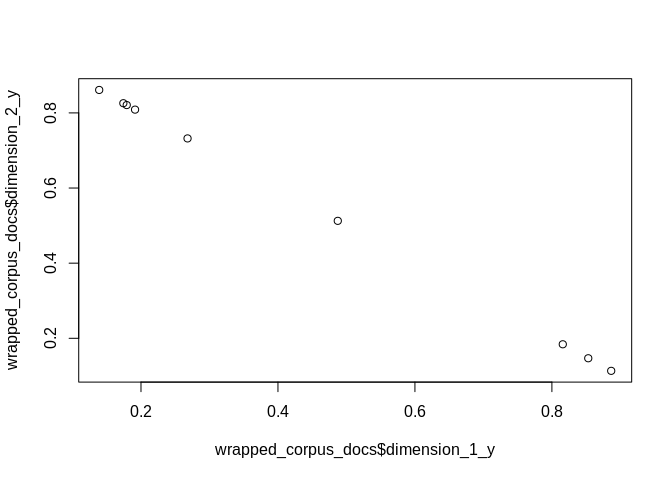
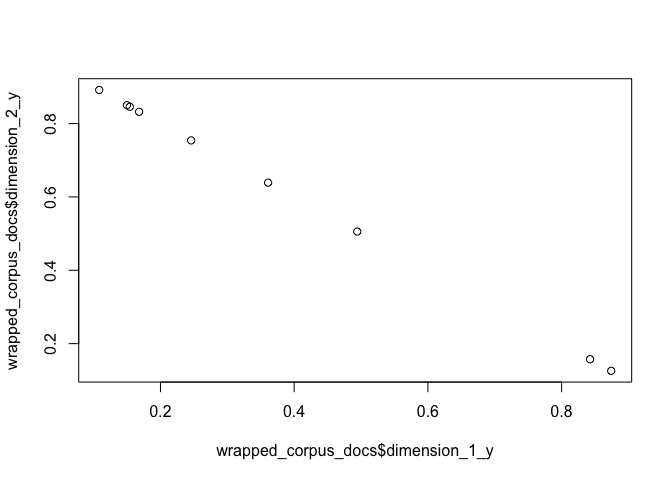
log entropy added

diff --git a/README.md b/README.md
@@ -1,26 +1,29 @@
 
 <!-- README.md is generated from README.Rmd. Please edit that file -->
+
 <!-- badges: start -->
-[![Lifecycle: experimental](https://img.shields.io/badge/lifecycle-experimental-orange.svg)](https://www.tidyverse.org/lifecycle/#experimental) [![Travis build status](https://travis-ci.org/news-r/gensimr.svg?branch=master)](https://travis-ci.org/news-r/gensimr) <!-- badges: end -->
 
-![gensim official logo](https://radimrehurek.com/gensim/_static/images/gensim.png)
+[![Lifecycle:
+experimental](https://img.shields.io/badge/lifecycle-experimental-orange.svg)](https://www.tidyverse.org/lifecycle/#experimental)
+[![Travis build
+status](https://travis-ci.org/news-r/gensimr.svg?branch=master)](https://travis-ci.org/news-r/gensimr)
+<!-- badges: end -->
 
-Brings [gensim](https://radimrehurek.com/gensim) to R: efficient large-scale topic modeling.
+![gensim official
+logo](https://radimrehurek.com/gensim/_static/images/gensim.png)
 
-⚠ Notice the "Experimental" lifecycle badge: things won't work, stuff will break.
+Brings [gensim](https://radimrehurek.com/gensim) to R: efficient
+large-scale topic modeling.
 
-- [Installation](#installation)
-- [Topic Modeling](#topic-modeling)
-  - [Latent Similarity Index](#latent-similarity-index)
-  - [Random Projections](#random-projections)
-  - [Latent Dirichlet Allocation](#latent-dirichlet-allocation)
-  - [Hierarchical Dirichlet Process](#hierarchical-dirichlet-process)
-- [Document Similarity](#document-similarity)
-  - [word2vec](#word2vec)
-- [Downloader](#downloader)
+⚠ Notice the “Experimental” lifecycle badge: things won’t work, stuff
+will break.
 
-Installation
-------------
+  - [Installation](#installation)
+  - [Preprocessing](#preprocessing)
+  - [Topic Modeling](#topic-modeling)
+  - [Document Similarity](#document-similarity)
+
+## Installation
 
 Install the package.
 
@@ -31,13 +34,16 @@ remotes::install_github("news-r/gensimr")
 
 Install the python dependency.
 
-*Make sure you have a C compiler before installing Gensim, to use the optimized word2vec routines (70x speedup compared to plain NumPy implementation).*
+*Make sure you have a C compiler before installing Gensim, to use the
+optimized word2vec routines (70x speedup compared to plain NumPy
+implementation).*
 
 ``` r
 gensimr::install_gensim()
 ```
 
-Ideally one should use a virtual environment and pass it to `install_gensim`, only do this once.
+Ideally one should use a virtual environment and pass it to
+`install_gensim`, only do this once.
 
 ``` r
 # replace with path of your choice
@@ -50,10 +56,11 @@ reticulate::use_virtualenv(my_env) # force reticulate to use env
 gensimr::install_gensim(my_env) # install gensim in environment
 ```
 
- Preprocessing
---------------
+\#\# Preprocessing
 
-First we preprocess the corpus using example data, a tiny corpus of 9 documents. Reproducing the tutorial on [corpora and vector spaces](https://radimrehurek.com/gensim/tut1.html).
+First we preprocess the corpus using example data, a tiny corpus of 9
+documents. Reproducing the tutorial on [corpora and vector
+spaces](https://radimrehurek.com/gensim/tut1.html).
 
 ``` r
 library(gensimr)
@@ -74,6 +81,16 @@ print(corpus)
 docs <- preprocess(corpus)
 #> → Preprocessing 9 documents
 #> ← 9 documents after perprocessing
+
+docs[[1]] # print first preprocessed document 
+#> [[1]]
+#> [1] "human"
+#> 
+#> [[2]]
+#> [1] "interface"
+#> 
+#> [[3]]
+#> [1] "computer"
 ```
 
 Once preprocessed we can build a dictionary.
@@ -84,7 +101,10 @@ dictionary <- corpora_dictionary(docs)
 
 A dictionary essentially assigns an integer to each term.
 
-`doc2bow` simply applies the method of the same name to every documents (see example below); it counts the number of occurrences of each distinct word, converts the word to its integer word id and returns the result as a sparse vector.
+`doc2bow` simply applies the method of the same name to every documents
+(see example below); it counts the number of occurrences of each
+distinct word, converts the word to its integer word id and returns the
+result as a sparse vector.
 
 ``` r
 # native method to a single document
@@ -95,16 +115,21 @@ dictionary$doc2bow(docs[[1]])
 corpus_bow <- doc2bow(dictionary, docs)
 ```
 
-Then serialise to matrix market format, the function returns the path to the file (this is saved on disk for efficiency), if no path is passed then a temp file is created. Here we set `auto_delete` to `FALSE` otherwise the corpus is deleted after first use. Note this means you should manually delete it with `delete_mmcorpus`.
+Then serialise to matrix market format, the function returns the path to
+the file (this is saved on disk for efficiency), if no path is passed
+then a temp file is created. Here we set `auto_delete` to `FALSE`
+otherwise the corpus is deleted after first use. Note this means you
+should manually delete it with `delete_mmcorpus`.
 
 ``` r
 (corpus_mm <- serialize_mmcorpus(corpus_bow, auto_delete = FALSE))
-#> ℹ Path: /tmp/RtmpOBzKDG/file161678019b39.mm 
+#> ℹ Path: /var/folders/n9/ys9t1h091jq80g4hww24v8g0n7v578/T//RtmpLY2TyP/filee06ddc2ab.mm 
 #>  ✔ Temp file
 #>  ✖ Delete after use
 ```
 
-Then initialise a model, we're going to use a Latent Similarity Indexing method later on (`model_lsi`) which requires td-idf.
+Then initialise a model, we’re going to use a Latent Similarity Indexing
+method later on (`model_lsi`) which requires td-idf.
 
 ``` r
 tfidf <- model_tfidf(corpus_mm)
@@ -116,10 +141,13 @@ We can then use the model to transform our original corpus.
 corpus_transformed <- wrap(tfidf, corpus_bow)
 ```
 
-Topic Modeling
---------------
+## Topic Modeling
 
-Finally, we can build models, the number of topics of `model_*` functions defautls to 2, which is too low for what we generally would do with gensimr but works for the low number of documents we have. Below we reproduce bits and bobs of the [topics and transformation](https://radimrehurek.com/gensim/tut2.html).
+Finally, we can build models, the number of topics of `model_*`
+functions defautls to 2, which is too low for what we generally would do
+with gensimr but works for the low number of documents we have. Below we
+reproduce bits and bobs of the [topics and
+transformation](https://radimrehurek.com/gensim/tut2.html).
 
 ### Latent Similarity Index
 
@@ -129,10 +157,12 @@ Note that we use the transformed corpus.
 lsi <- model_lsi(corpus_transformed, id2word = dictionary)
 #> ⚠ Low number of topics
 lsi$print_topics()
-#> [(0, '0.703*"trees" + 0.538*"graph" + 0.402*"minors" + 0.187*"survey" + 0.061*"system" + 0.060*"time" + 0.060*"response" + 0.058*"user" + 0.049*"computer" + 0.035*"interface"'), (1, '0.460*"system" + 0.373*"user" + 0.332*"eps" + 0.328*"interface" + 0.320*"response" + 0.320*"time" + 0.293*"computer" + 0.280*"human" + 0.171*"survey" + -0.161*"trees"')]
+#> [(0, '-0.703*"trees" + -0.538*"graph" + -0.402*"minors" + -0.187*"survey" + -0.061*"system" + -0.060*"response" + -0.060*"time" + -0.058*"user" + -0.049*"computer" + -0.035*"interface"'), (1, '-0.460*"system" + -0.373*"user" + -0.332*"eps" + -0.328*"interface" + -0.320*"time" + -0.320*"response" + -0.293*"computer" + -0.280*"human" + -0.171*"survey" + 0.161*"trees"')]
 ```
 
-We can then wrap the model around the corpus to extract further information, below we extract how each document contribute to each dimension (topic).
+We can then wrap the model around the corpus to extract further
+information, below we extract how each document contribute to each
+dimension (topic).
 
 ``` r
 wrapped_corpus <- wrap(lsi, corpus_transformed)
@@ -140,15 +170,15 @@ wrapped_corpus <- wrap(lsi, corpus_transformed)
 #> # A tibble: 9 x 4
 #>   dimension_1_x dimension_1_y dimension_2_x dimension_2_y
 #>           <dbl>         <dbl>         <dbl>         <dbl>
-#> 1             0        0.0660             1        0.520 
-#> 2             0        0.197              1        0.761 
-#> 3             0        0.0899             1        0.724 
-#> 4             0        0.0759             1        0.632 
-#> 5             0        0.102              1        0.574 
-#> 6             0        0.703              1       -0.161 
-#> 7             0        0.877              1       -0.168 
-#> 8             0        0.910              1       -0.141 
-#> 9             0        0.617              1        0.0539
+#> 1             0       -0.0660             1       -0.520 
+#> 2             0       -0.197              1       -0.761 
+#> 3             0       -0.0899             1       -0.724 
+#> 4             0       -0.0759             1       -0.632 
+#> 5             0       -0.102              1       -0.574 
+#> 6             0       -0.703              1        0.161 
+#> 7             0       -0.877              1        0.168 
+#> 8             0       -0.910              1        0.141 
+#> 9             0       -0.617              1       -0.0539
 plot(wrapped_corpus_docs$dimension_1_y, wrapped_corpus_docs$dimension_2_y)
 ```
 
@@ -174,8 +204,7 @@ plot(wrapped_corpus_docs$dimension_1_y, wrapped_corpus_docs$dimension_2_y)
 Note that we use the original, non-transformed corpus.
 
 ``` r
-lda <- model_lda(corpus_mm, id2word = dictionary)
-#> ⚠ Low number of topics
+lda <- model_lda(corpus_mm, id2word = dictionary, num_topics = 2)
 lda_topics <- lda$get_document_topics(corpus_bow)
 wrapped_corpus_docs <- get_docs_topics(lda_topics)
 plot(wrapped_corpus_docs$dimension_1_y, wrapped_corpus_docs$dimension_2_y)
@@ -190,34 +219,34 @@ hdp <- model_hdp(corpus_mm, id2word = dictionary)
 reticulate::py_to_r(hdp$show_topic(topic_id = 1L, topn = 5L))
 #> [[1]]
 #> [[1]][[1]]
-#> [1] "user"
+#> [1] "time"
 #> 
 #> [[1]][[2]]
-#> [1] 0.1855613
+#> [1] 0.2436053
 #> 
 #> 
 #> [[2]]
 #> [[2]][[1]]
-#> [1] "computer"
+#> [1] "survey"
 #> 
 #> [[2]][[2]]
-#> [1] 0.1368809
+#> [1] 0.1652509
 #> 
 #> 
 #> [[3]]
 #> [[3]][[1]]
-#> [1] "interface"
+#> [1] "user"
 #> 
 #> [[3]][[2]]
-#> [1] 0.1368497
+#> [1] 0.12511
 #> 
 #> 
 #> [[4]]
 #> [[4]][[1]]
-#> [1] "eps"
+#> [1] "trees"
 #> 
 #> [[4]][[2]]
-#> [1] 0.1296338
+#> [1] 0.08698714
 #> 
 #> 
 #> [[5]]
@@ -225,13 +254,52 @@ reticulate::py_to_r(hdp$show_topic(topic_id = 1L, topn = 5L))
 #> [1] "human"
 #> 
 #> [[5]][[2]]
-#> [1] 0.1180008
+#> [1] 0.07790606
 ```
 
-Document Similarity
--------------------
+### word2vec
 
-Reproducing [tutorial on similarity](https://radimrehurek.com/gensim/tut3.html#similarity-interface).
+Word2vec works somewhat differently. The example below is a reproduction
+of the Kaggle [Gensim Word2Vec
+Tutorial](https://www.kaggle.com/pierremegret/gensim-word2vec-tutorial#Training-the-model).
+
+``` r
+# initialise
+word2vec <- model_word2vec(size = 100L, window = 5L, min_count = 1L)
+word2vec$build_vocab(unname(docs)) 
+#> None
+word2vec$train(unname(docs), total_examples = word2vec$corpus_count, epochs = 20L)
+#> (76, 580)
+word2vec$init_sims(replace = TRUE)
+#> None
+```
+
+Now we can explore the model.
+
+``` r
+word2vec$wv$most_similar(positive = c("interface"))
+#> [('survey', 0.24039584398269653), ('time', 0.10832533240318298), ('eps', 0.10326456278562546), ('user', 0.06701876223087311), ('trees', 0.046254344284534454), ('response', 0.03557050600647926), ('graph', -0.00787646695971489), ('human', -0.017413843423128128), ('minors', -0.08258240669965744), ('computer', -0.12464559078216553)]
+```
+
+We expect “trees” to be the odd one out, it is a term that was in a
+different topic (\#2) whereas other terms were in topics \#1.
+
+``` r
+word2vec$wv$doesnt_match(c("human", "interface", "trees"))
+#> human
+```
+
+### Log Entropy
+
+``` r
+log_entropy <- model_logentropy(corpus_bow)
+vector <- wrap(log_entropy, corpus_bow)
+```
+
+## Document Similarity
+
+Reproducing [tutorial on
+similarity](https://radimrehurek.com/gensim/tut3.html#similarity-interface).
 
 ``` r
 mm <- read_serialized_mmcorpus(corpus_mm)
@@ -269,37 +337,7 @@ Clean up, delete the corpus.
 delete_mmcorpus(corpus_mm)
 ```
 
-### word2vec
-
-Word2vec works somewhat differently. The example below is a reproduction of the Kaggle [Gensim Word2Vec Tutorial](https://www.kaggle.com/pierremegret/gensim-word2vec-tutorial#Training-the-model).
-
-``` r
-# initialise
-word2vec <- model_word2vec(size = 100L, window = 5L, min_count = 1L)
-word2vec$build_vocab(unname(docs)) 
-#> None
-word2vec$train(unname(docs), total_examples = word2vec$corpus_count, epochs = 20L)
-#> (76, 580)
-word2vec$init_sims(replace = TRUE)
-#> None
-```
-
-Now we can explore the model.
-
-``` r
-word2vec$wv$most_similar(positive = c("interface"))
-#> [('survey', 0.24786889553070068), ('computer', 0.09400846064090729), ('human', 0.09143400937318802), ('response', 0.08985058218240738), ('graph', 0.06317250430583954), ('minors', 0.037351273000240326), ('time', -0.02597055211663246), ('system', -0.0897526741027832), ('trees', -0.17105823755264282), ('eps', -0.18963323533535004)]
-```
-
-We expect "trees" to be the odd one out, it is a term that was in a different topic (\#2) whereas other terms were in topics \#1.
-
-``` r
-word2vec$wv$doesnt_match(c("human", "interface", "trees"))
-#> trees
-```
-
-Downloader
-----------
+## Downloader
 
 You can download external datasets to easily build models.
 
@@ -323,7 +361,7 @@ model$most_similar("cat") %>%
 #> [1] "dog"
 #> 
 #> [[1]][[2]]
-#> [1] 0.9590821
+#> [1] 0.9590819
 #> 
 #> 
 #> [[2]]
@@ -331,7 +369,7 @@ model$most_similar("cat") %>%
 #> [1] "monkey"
 #> 
 #> [[2]][[2]]
-#> [1] 0.9203579
+#> [1] 0.9203578
 #> 
 #> 
 #> [[3]]
@@ -363,7 +401,7 @@ model$most_similar("cat") %>%
 #> [1] "horse"
 #> 
 #> [[6]][[2]]
-#> [1] 0.8872728
+#> [1] 0.8872727
 #> 
 #> 
 #> [[7]]
@@ -371,7 +409,7 @@ model$most_similar("cat") %>%
 #> [1] "kitty"
 #> 
 #> [[7]][[2]]
-#> [1] 0.8870541
+#> [1] 0.8870542
 #> 
 #> 
 #> [[8]]
@@ -379,7 +417,7 @@ model$most_similar("cat") %>%
 #> [1] "puppy"
 #> 
 #> [[8]][[2]]
-#> [1] 0.8867698
+#> [1] 0.8867697
 #> 
 #> 
 #> [[9]]
@@ -387,7 +425,7 @@ model$most_similar("cat") %>%
 #> [1] "hot"
 #> 
 #> [[9]][[2]]
-#> [1] 0.8865256
+#> [1] 0.8865255
 #> 
 #> 
 #> [[10]]
